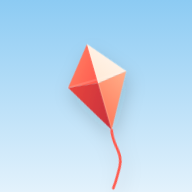
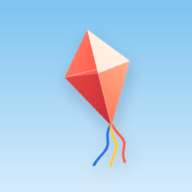
Drachen mit drei Bändern in Rot, Gelb und Blau
Angelehnt an unseren echten Drachen. Gilt für die App, das Icon und die
Bilder in den Benachrichtigungen und im README.

Claude-Session: https://claude.ai/code/session_01Qn92bpJvWLDopGQQfoGXan

Changed region(s): [[0.3125, 0.1562, 0.6875, 1.0]]

diff --git a/index.html b/index.html
@@ -4,9 +4,9 @@
 <meta charset="utf-8">
 <meta name="viewport" content="width=device-width, initial-scale=1">
 <meta name="theme-color" content="#cfe6f7">
-<link rel="manifest" href="manifest.webmanifest?v=5">
-<link rel="icon" href="icon-192.png">
-<link rel="apple-touch-icon" href="icon-192.png">
+<link rel="manifest" href="manifest.webmanifest?v=6">
+<link rel="icon" href="icon-192.png?v=6">
+<link rel="apple-touch-icon" href="icon-192.png?v=6">
 <title>Drachenwetter</title>
 <style>
   :root {
@@ -96,7 +96,8 @@
     <line x1="-2000" y1="268" x2="2400" y2="268" stroke="var(--line)" stroke-width="1"/>
     <path id="string" fill="none" stroke="var(--ink)" stroke-opacity=".35" stroke-width=".8"/>
     <g id="kite" filter="url(#soft)">
-      <path id="tail2" fill="#ffd2b8"/>
+      <path id="tail3" fill="#2b6fd6"/>
+      <path id="tail2" fill="#ffcc33"/>
       <path id="tail1" fill="#ff5a4e"/>
       <polygon points="0,-62 46,-6 0,0"   fill="url(#gB)"/>
       <polygon points="0,-62 -46,-6 0,0"  fill="url(#gA)"/>
@@ -178,8 +179,10 @@ function frame(now) {
   $('kite').setAttribute('transform', `translate(${x.toFixed(1)} ${y.toFixed(1)}) scale(${sc.toFixed(3)} ${(sc * sy).toFixed(3)}) rotate(${rot.toFixed(1)})`);
   $('kite').setAttribute('opacity', op.toFixed(2));
   const ph = t * p.spd;
-  $('tail1').setAttribute('d', ribbon(p.len, p.amp, ph, p.drift, 3.2, 0));
-  $('tail2').setAttribute('d', ribbon(p.len * .82, p.amp * 1.15, ph + 1.1, p.drift * .9, 2.2, 5));
+  // drei Schweifbänder wie beim echten Drachen: Rot, Gelb, Blau
+  $('tail1').setAttribute('d', ribbon(p.len, p.amp, ph, p.drift, 2.6, 4));
+  $('tail2').setAttribute('d', ribbon(p.len * .9, p.amp * 1.1, ph + .9, p.drift * .95, 2.4, 0));
+  $('tail3').setAttribute('d', ribbon(p.len * .8, p.amp * 1.2, ph + 1.8, p.drift * .9, 2.2, -4));
   if (p.broken) {               // nur das lose Leinenende flattert am Rand
     const fx = 330 + Math.sin(t * 6) * 14, fy = 236 + Math.cos(t * 5) * 10;
     $('string').setAttribute('d', `M420 330 Q ${(372 + Math.sin(t * 4) * 12).toFixed(1)} ${(300 + Math.cos(t * 6) * 8).toFixed(1)} ${fx.toFixed(1)} ${fy.toFixed(1)}`);
